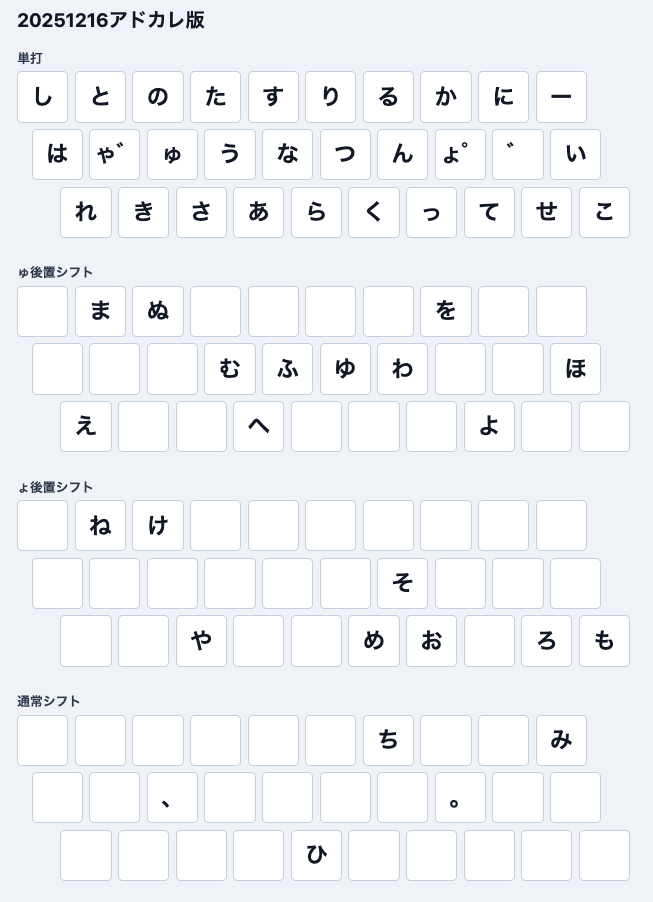
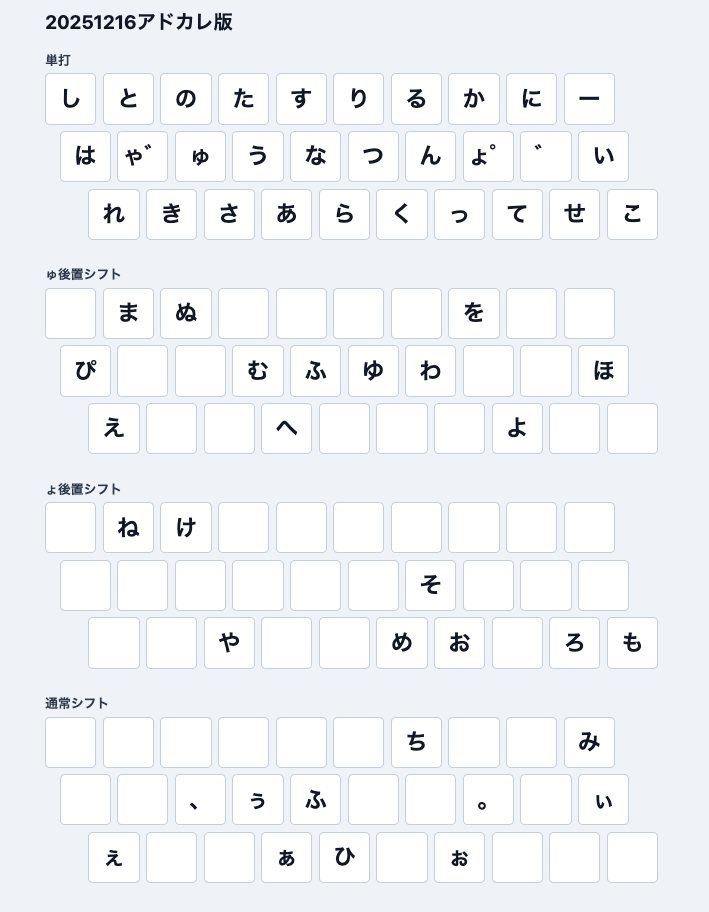
配列図に母音の小書きを載せるように修正

diff --git a/packages/web/src/App.tsx b/packages/web/src/App.tsx
@@ -1,27 +1,34 @@
-import { keyPositions } from "cli/core";
+import { KeyPosition, keyPositions } from "cli/core";
 import { layout20251216adcale } from "cli/layout-fixtures";
 
 type KeyInfo = {
-  position: number;
+  position: KeyPosition;
   row: number;
   col: number;
   label: string;
+  vowel: string | undefined;
 };
 
 const rowOffsets = [0, 0.25, 0.75]; // middle row is +0.25, bottom is +0.5 from middle
 const keyWidth = 72;
 const keyHeight = 72;
 
+const layout = layout20251216adcale;
+const vowels = ["あ", "い", "う", "え", "お"];
+
 function buildKeys(slot: "oneStroke" | "shift1" | "shift2" | "normalShift"): KeyInfo[] {
   return keyPositions.map((position) => {
     const row = Math.floor(position / 10);
     const col = position % 10;
-    const label = layout20251216adcale[position][slot] ?? "";
+    const label = layout[position][slot] ?? "";
+    const vowel = Object.values(layout[position]).find((kana) => vowels.includes(kana));
+
     return {
       position,
       row,
       col: col + rowOffsets[row],
       label,
+      vowel: vowel,
     };
   });
 }
@@ -37,6 +44,17 @@ type BoardProps = {
   slot: "oneStroke" | "shift1" | "shift2" | "normalShift";
 };
 
+function kogaki(vowel: string): string | undefined {
+  const kogakiMap: Record<string, string> = {
+    あ: "ぁ",
+    い: "ぃ",
+    う: "ぅ",
+    え: "ぇ",
+    お: "ぉ",
+  };
+  return kogakiMap[vowel];
+}
+
 function KeyboardBoard({ title, slot }: BoardProps) {
   const keys = buildKeys(slot);
   const width = (10 + Math.max(...rowOffsets)) * keyWidth;
@@ -48,7 +66,17 @@ function KeyboardBoard({ title, slot }: BoardProps) {
       <div className="text-base font-semibold text-slate-700 mb-1">{title}</div>
       <div className="absolute">
         {keys.map((key) => {
-          const text = normalizeLabel(key.label);
+          let text = normalizeLabel(key.label);
+          if (key.vowel && slot === "normalShift") {
+            text = kogaki(key.vowel) ?? "";
+          }
+          if (layout[key.position].oneStroke === "は" && slot === "shift1") {
+            text = "ぴ";
+          }
+          if (layout[key.position].shift1 === "ふ" && slot === "normalShift") {
+            text = "ふ";
+          }
+
           const wide = text.length >= 2;
           return (
             <div

diff --git a/README.md b/README.md
@@ -35,7 +35,7 @@ Google日本語入力のローマ字テーブルで実装しています。
 
 ### シフトの省略
 
-拗音、濁音、半濁音、外来音を入力で後置シフトに配置されているかなを使う場合は、シフトを省略して入力します。
+拗音、濁音、半濁音、外来音の入力で後置シフトに配置されているかなを使う場合は、シフトを省略して入力します。
 
 | 種類                   | 例                                            |
 | ---------------------- | --------------------------------------------- |
@@ -49,7 +49,7 @@ Google日本語入力のローマ字テーブルで実装しています。
 入力方法について、いくつかの例外があります。
 
 - 濁音にも拗音にもなるかな（「き」「し」「ち」「ひ」）を濁音化する場合は、「゛」キーを使用します。
-- 「ぴ」は「ひ」+「よ」で入力できないため、代わりに「は」+「ゅ」で入力します。
+- 「ぴ」は「ひ」+「ょ」で入力できないため、代わりに「は」+「ゅ」で入力します。
 - 単打ではないイ段かな（「ひ」「み」「り」）を単体で入力する場合は、通常のシフトを使います。
 
 Shiftキーを押すタイミングは、ある程度融通が効くようになっています。Shiftキーの面の空いている箇所は、単打と同じキーが配置されているからです。例えば「てぃ」は、「て + Shift(い)」の他に「Shift(て + い)」でも入力できます。
